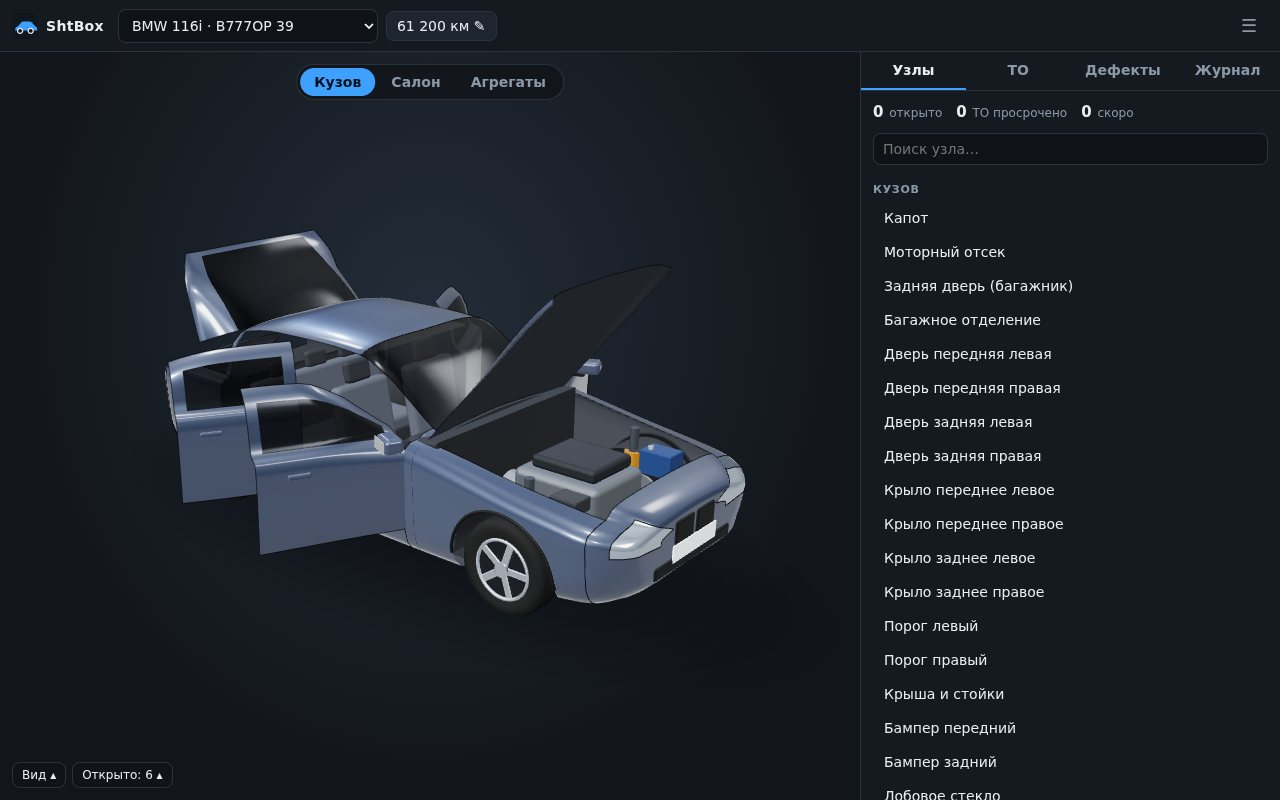
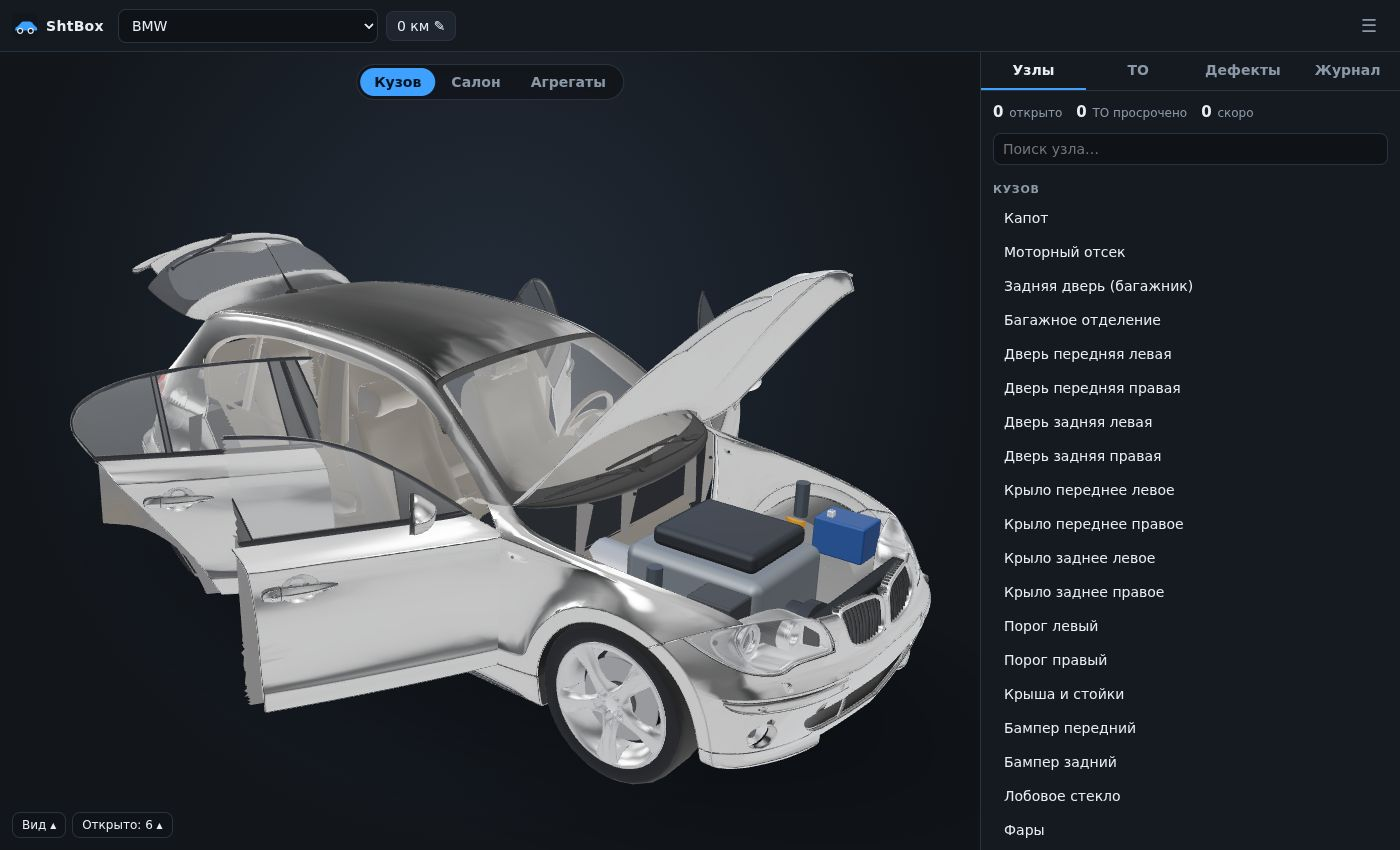
Screenshot: BMW 116i GLB with all openings open

diff --git a/README.md b/README.md
@@ -9,7 +9,7 @@
 | --- | --- |
 | ![Обзор: дефекты на кузове](docs/screenshots/01-overview.jpg) **Кузов с дефектами** — ржавчина, вмятины, сколы и царапины видны на модели, бейджи показывают открытые записи | ![Панель узла](docs/screenshots/02-zone.jpg) **Узел из списка** — камера подъезжает к нему, панель показывает открытые записи, регламент и историю |
 | ![Агрегаты и ТО](docs/screenshots/03-maintenance-units.jpg) **Слой «Агрегаты» и регламентное ТО** — просрочено / скоро / в норме | ![Журнал, открытые двери и капот](docs/screenshots/04-journal-open-doors.jpg) **Журнал работ**, расходы по типам и открытые двери/капот/багажник |
-| ![Вторая модель: BMW 116i](docs/screenshots/07-bmw-hatch.jpg) **Вторая модель** — BMW 116i (хэтчбек, задний привод) с открытой пятой дверью | ![Данные, синхронизация, напоминания](docs/screenshots/06-data-dialog.jpg) **Меню ☰ → «Данные»** — резервная копия (в т.ч. с шифрованием), синхронизация, напоминания о ТО |
+| ![Вторая модель: BMW 116i](docs/screenshots/07-bmw-hatch.jpg) **Основная модель** — детальная BMW 116i (GLB, CC-BY-4.0): открываются четыре двери, капот и пятая дверь, под капотом — агрегаты | ![Данные, синхронизация, напоминания](docs/screenshots/06-data-dialog.jpg) **Меню ☰ → «Данные»** — резервная копия (в т.ч. с шифрованием), синхронизация, напоминания о ТО |
 
 <p align="center"><img src="docs/screenshots/05-mobile.jpg" alt="Мобильная версия" width="280"><br><em>Мобильная версия: 3D сверху, панель узлов — снизу</em></p>
 
